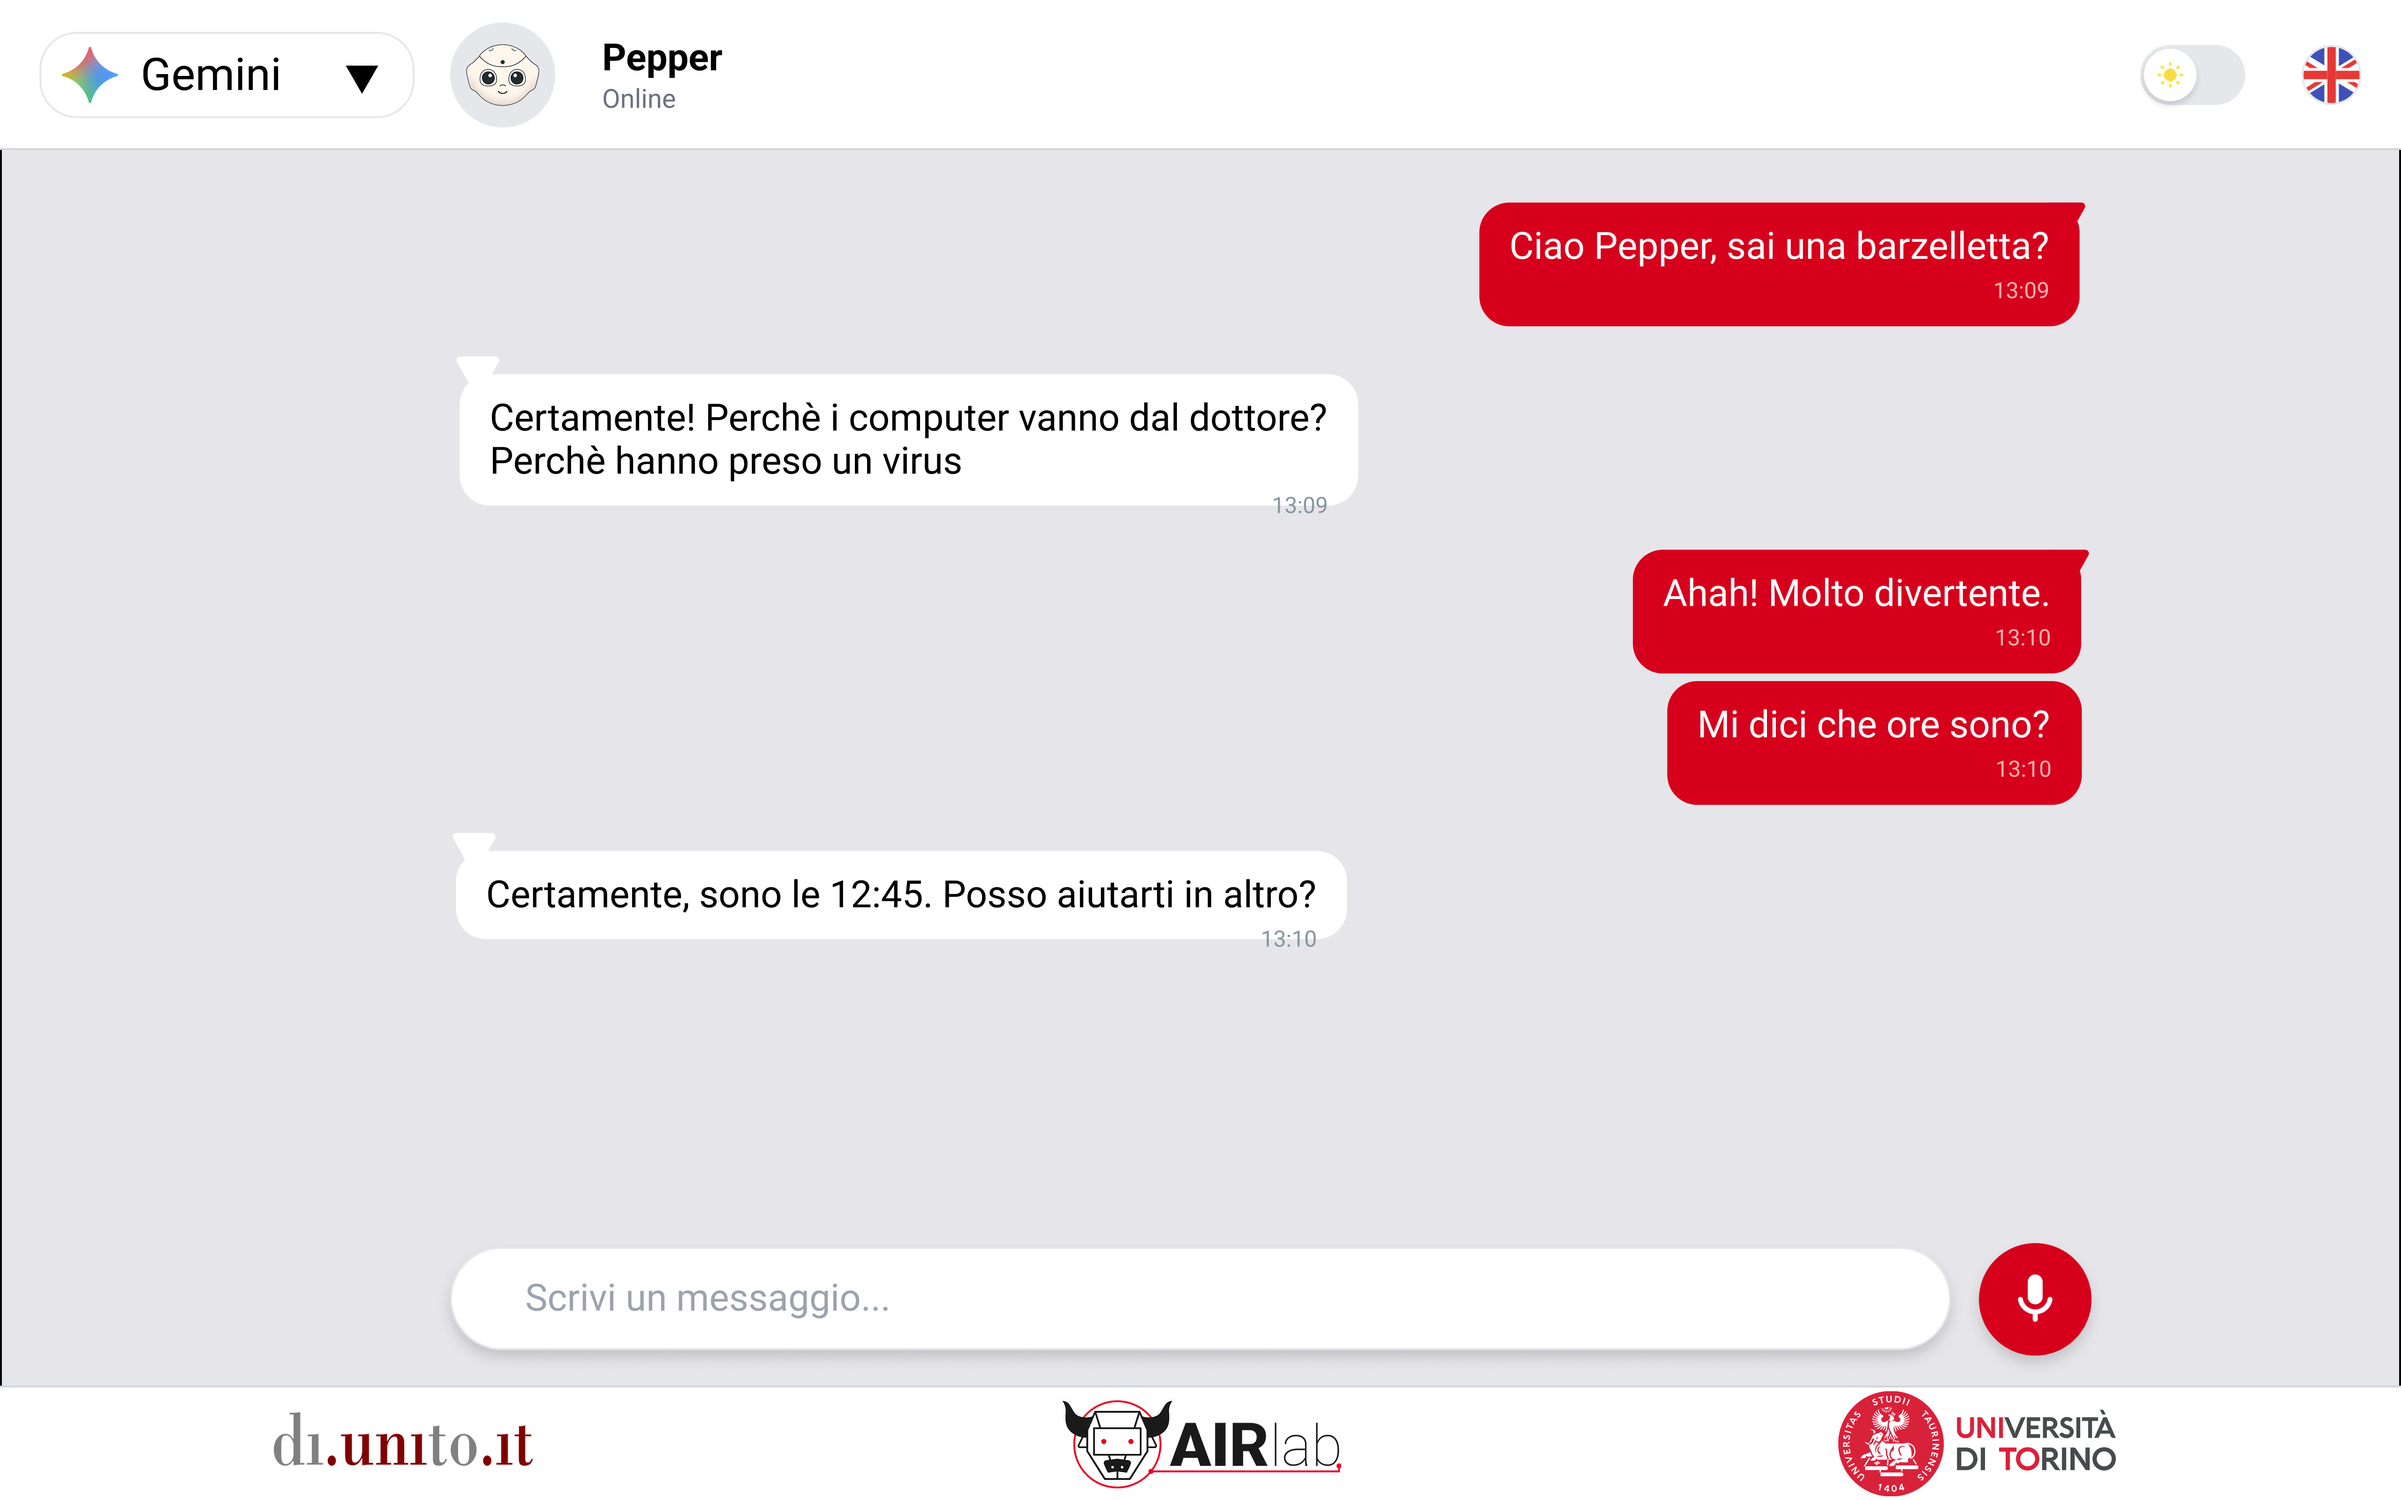
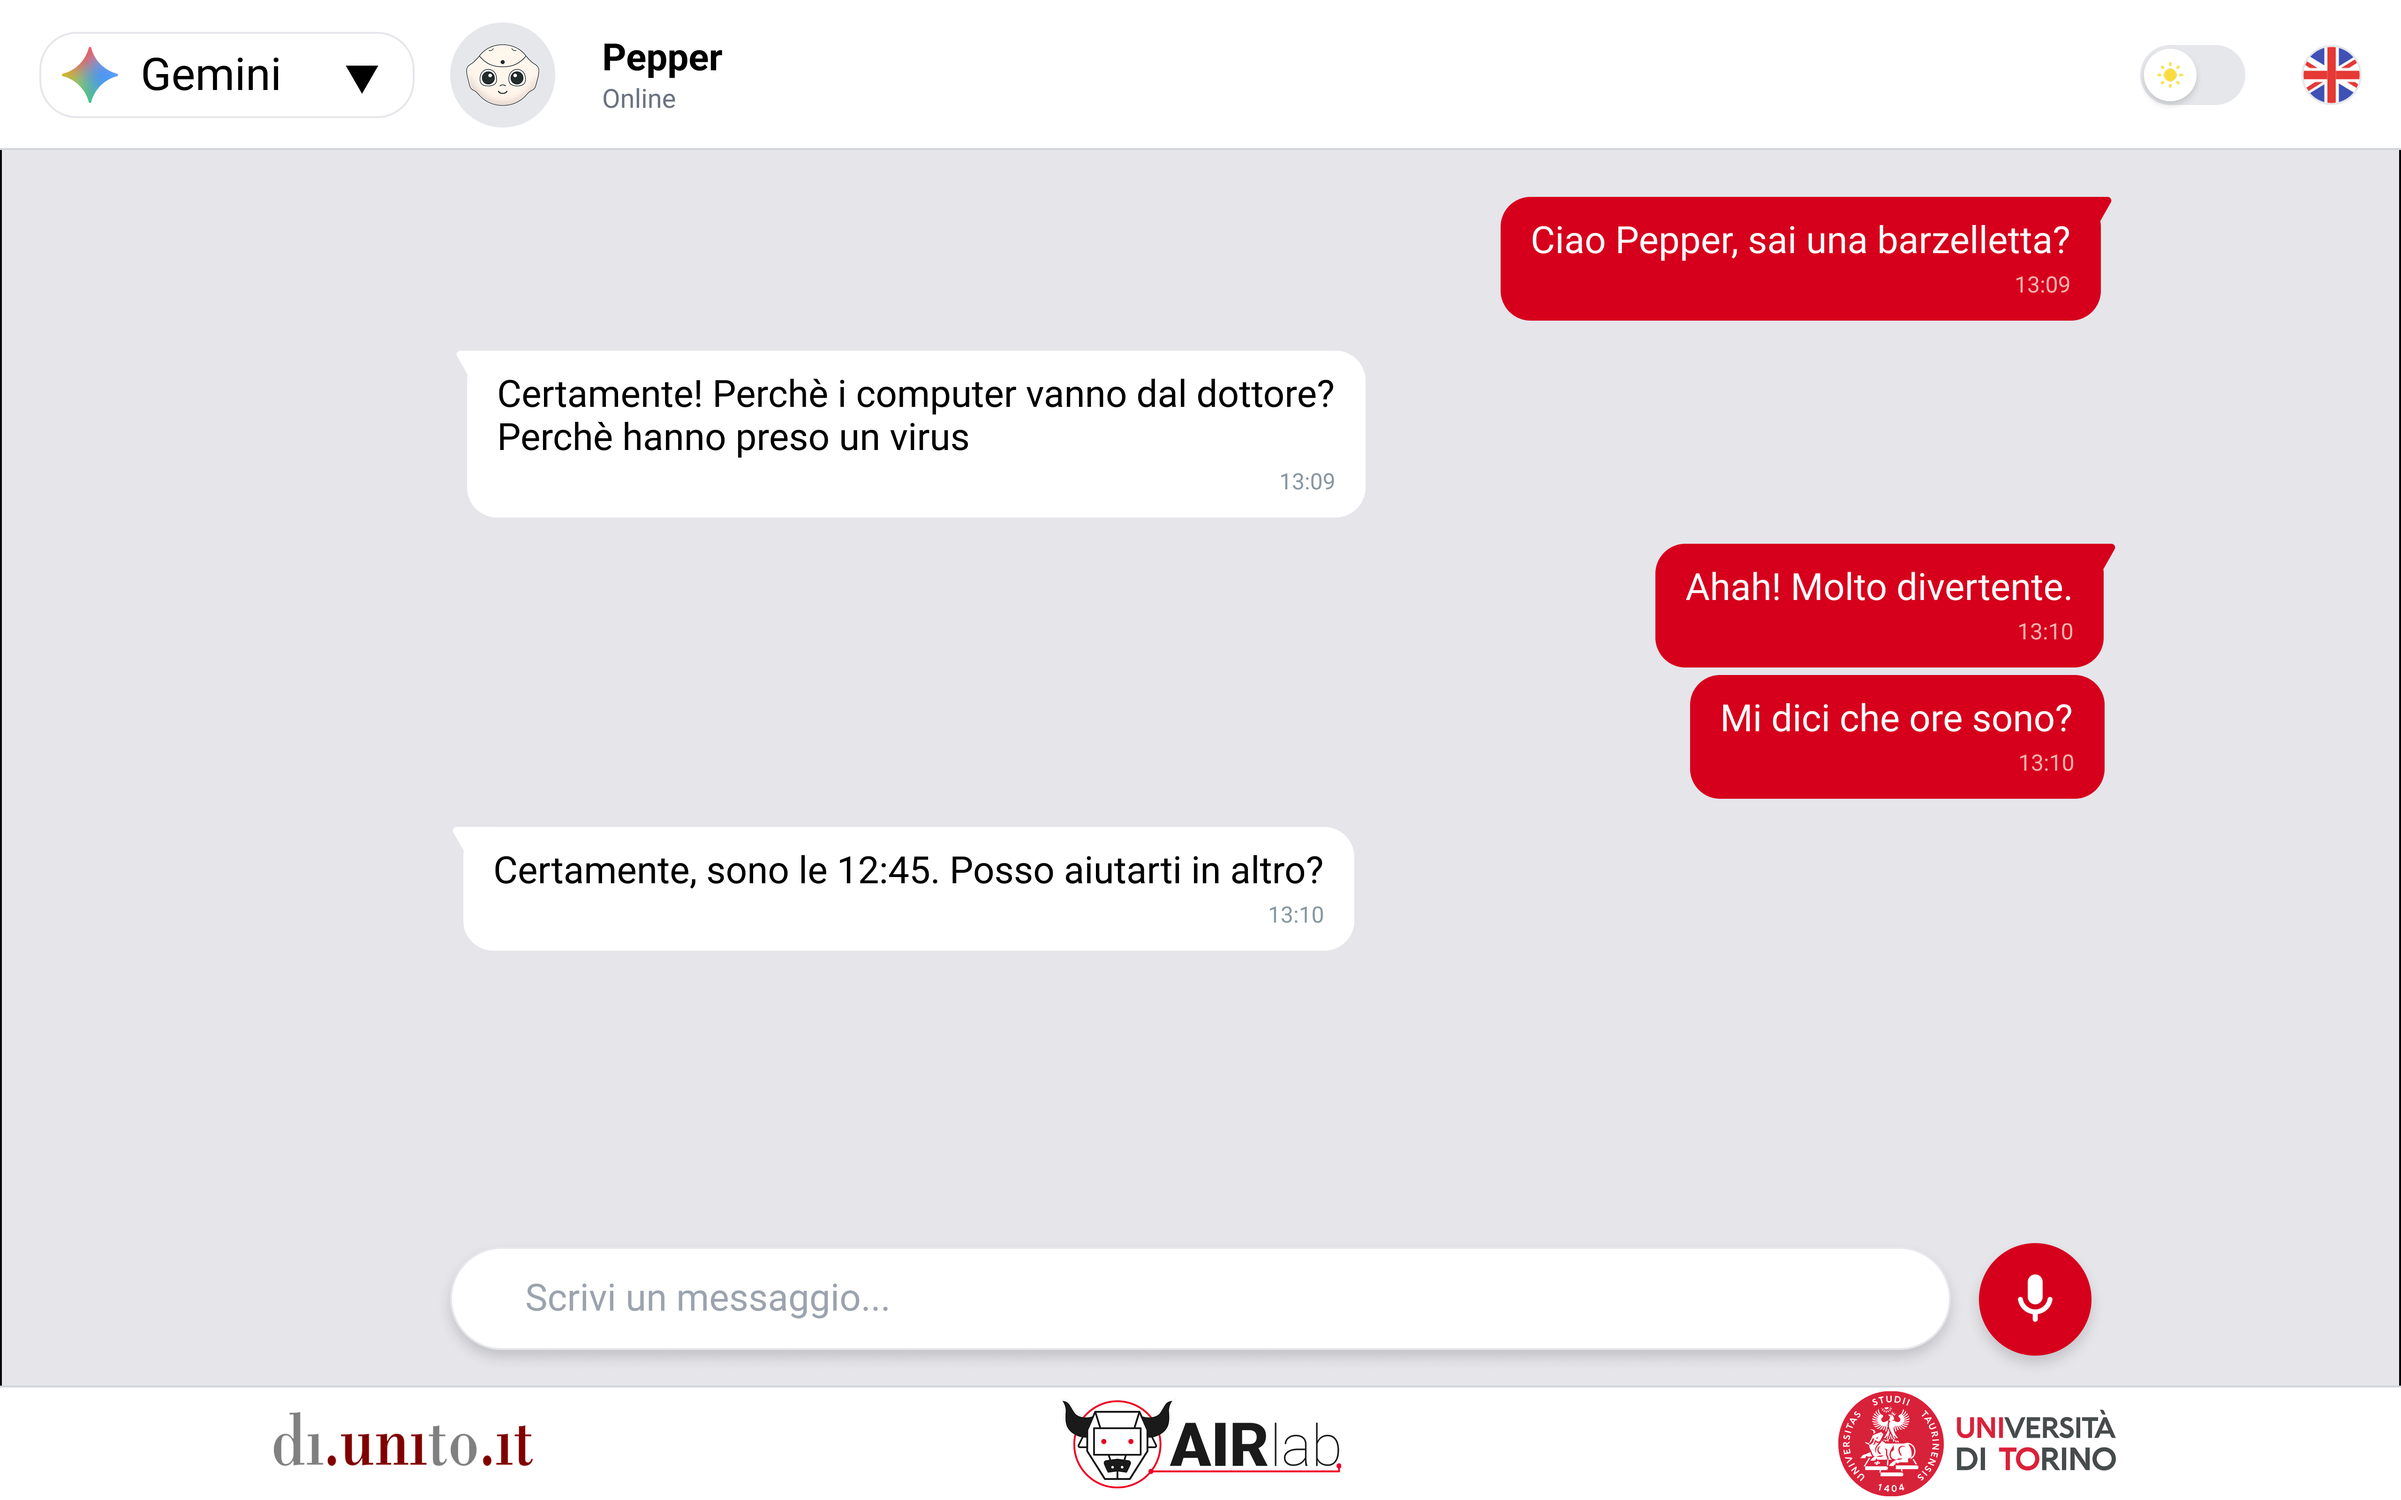
docs: update README references to PNG format and add new chat screen assets

diff --git a/README.md b/README.md
@@ -27,16 +27,16 @@ Il design dell'interfaccia è stato progettato per essere intuitivo e accessibil
 ### Schermate Principali
 
 **Welcome Screen (Light)** <br>
-![Welcome Screen Light](./figma/Welcome%20Screen/Welcome%20Screen%20Light%20Italian.svg)
+![Welcome Screen Light](./figma/Welcome%20Screen/Welcome%20Screen%20Light%20Italian.png)
 
 **Welcome Screen (Dark)** <br>
-![Welcome Screen Dark](./figma/Welcome%20Screen/Welcome%20Screen%20Dark%20Italian.svg)
+![Welcome Screen Dark](./figma/Welcome%20Screen/Welcome%20Screen%20Dark%20Italian.png)
 
 **Chat Screen (Light)** <br>
-![Chat Screen Light](./figma/Chat%20Screen/Chat%20Screen%20Light%20Italian.svg)
+![Chat Screen Light](./figma/Chat%20Screen/Chat%20Screen%20Light%20Italian.png)
 
 **Chat Screen (Dark)** <br>
-![Chat Screen Dark](./figma/Chat%20Screen/Chat%20Screen%20Dark%20Italian.svg)
+![Chat Screen Dark](./figma/Chat%20Screen/Chat%20Screen%20Dark%20Italian.png)
 
 ## 🛠 Stack Tecnologico
 
